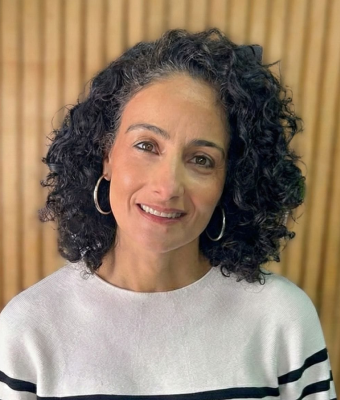
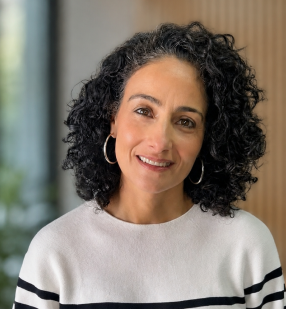
steering committe bio update

diff --git a/script.js b/script.js
@@ -52,9 +52,56 @@
     { id:"sc2", key:"Hama_Israeli", nameEn:"Hama Israeli-Smitzer", nameJa:"イスラエリ＝スミッツァー・ハマ", nameHe:"חמה ישראלי", org:"Ministry of Welfare and Social Affairs", orgHe:"משרד הרווחה והביטחון החברתי", role:"Senior Division Manager, Housing Systems for Senior Citizens", roleHe:"מנהלת בכירה, מערכות דיור לאזרחים ותיקים", email:"[email redacted]", photo:"Hama_Israeli.png" },
     { id:"sc3", key:"Oriel_Chazum", nameEn:"Oriel Chazum", nameJa:"カズム・ウリエル", nameHe:"אוריאל כזום", org:"National Insurance Institute", orgHe:"המוסד לביטוח לאומי", role:"Deputy Director General of Subsistence Benefits, Employment, and Senior Citizens Pensions", roleHe:"סגן מנכ״ל תחום קצבאות קיום, תעסוקה ופנסיות לאזרחים ותיקים", email:"[email redacted]", photo:"Oriel_Chazum.jpeg" },
     { id:"sc4", key:"Orit_Shachar", nameEn:"Orit Shahar", nameJa:"シャハル・オリット", nameHe:"אורית שחר", org:"JDC‑Eshel", orgHe:"ג'וינט ישראל – אשל", role:"Area Head – Health and Nursing Care for Older Adults", roleHe:"ראש תחום בריאות ותפקוד למבוגרים", email:"[email redacted]", photo:"Orit_Shachar.jpg" },
+    { id:"sc5", key:"Efrat_Gil", nameEn:"Efrat Gil", nameJa:"ギル・エフラット", nameHe:"אפרת גיל", org:"Ministry of Health", orgHe:"משרד הבריאות", role:"Head of Geriatric division", roleHe:"ראש מחלקת גריאטריה", email:"[email redacted]", photo:"Efrat_Gil.png" },
+    { id:"sc6", key:"Yafit_Bar", nameEn:"Yafit Bar", nameJa:"バル・ヤフィット", nameHe:"יפעת בר", org:"Ministry for Social Equality and the Advancement of the Status of Women", orgHe:"המשרד לשוויון חברתי וקידום מעמד האישה", role:"Director of Employment and Rights for Seniors", roleHe:"מנהלת תחום תעסוקה וזכויות לאזרחים ותיקים", email:"[email redacted]", photo:"Yafit_Bar.png" },
   ];
   var STEERING_BADGE = "Steering Committee";
-  var STEERING_PHOTO_VER = 10;
+  var STEERING_PHOTO_VER = 11;
+
+  var STEERING_BIOS = {
+    "Yariv_Man": [
+      "Yariv Man is Deputy Director General at the Ministry of Welfare and Social Affairs, where he heads the Administration for Senior Citizens. He is committed to promoting reforms aimed at adapting the welfare system to the needs of a continuously growing older population, while delegating planning and budgeting authority to local municipalities.",
+      "Previously, he served as Senior Director in the Department for the Socio-Economic Advancement of the Bedouin Society. Yariv holds an M.A. in Political Science, an M.A. in Public Policy, and a B.A. in Geography, all from the Hebrew University. He lives in Jerusalem with his wife and three sons."
+    ],
+    "Hama_Israeli": [
+      "Hama Israeli-Smitzer serves as Director of the Senior Housing Systems Division at the Israeli Ministry of Welfare and Social Affairs, leading national policy, regulation, and development of housing services for older adults, including nursing homes and assisted living facilities. She also serves as Acting Director of the Strategy and Population Aging Preparedness Division, overseeing strategic planning, research, digitization, and cross-government collaborations on aging policy.",
+      "In her previous role, she was responsible for the Ministry\u2019s out-of-home care systems, including residential facilities for children and youth and shelters for women affected by domestic violence. Hama is an expert in the development of welfare and housing services, with extensive experience in leading large-scale government programs, regulation, and multidisciplinary partnerships. She holds a Master\u2019s degree in Clinical Social Work from the Hebrew University of Jerusalem."
+    ],
+    "Oriel_Chazum": [
+      "Oriel Chazum serves as Deputy Director General of Subsistence Benefits, Employment, and Senior Citizens Pensions at the National Insurance Institute. He holds an M.A. in Public Policy from the Hebrew University.",
+      "He is a partner in formulating and promoting policy for benefit recipients and is responsible for providing services and ensuring access to rights in three main areas:",
+      "<strong>Employment Benefits:</strong> Oriel oversees the administration and processing of income-replacement benefits, ensuring financial support for individuals during career transitions or periods of unemployment.",
+      "<strong>Subsistence Allowances:</strong> He manages vital welfare programs designed to guarantee basic living conditions for vulnerable populations. This area focuses on reducing socioeconomic gaps and providing a reliable financial foundation for low-income individuals and their families, ensuring that they receive the support they need.",
+      "<strong>Senior Citizens:</strong> Oriel leads national initiatives to enhance the holistic well-being and economic security of older adults through two main departments. The first is Counseling for Senior Citizens and Their Families, a nationwide network that provides emotional, social, and community-based support for older adults and their families. The second is Third-Age Dependents Pensions, a vital financial safety net designed to significantly reduce poverty rates among older adults, ensure economic independence, and provide sustainable economic support for a dignified standard of living."
+    ],
+    "Orit_Shachar": [
+      "Orit Shahar is Area Head of Health and Functioning for Older Adults at JDC-Israel, Eshel. She holds an M.A. in Public Policy from the Hebrew University.",
+      "She works to advance optimal aging in Israel by initiating large-scale, measurable initiatives designed to help shape healthy aging in the country.",
+      "Her work focuses on two main areas:",
+      "<strong>Health and Functioning:</strong> This area aims to reduce functional decline and improve self-management and health literacy among pre-frail older adults within Israel\u2019s healthcare system, including hospitals and HMOs. In partnership with the Ministry of Health, Orit operates a program designed to decrease functional decline among hospitalized older adults by integrating age-friendly practices that encourage walking and delirium screening.",
+      "<strong>Formal Caregivers:</strong> In partnership with the National Insurance Institute, Orit promotes an active and healthy approach for older adults receiving home care. This includes developing a new skilled caregiver role and a career ladder designed to transform the knowledge and skills of the formal caregiving sector, helping it become more certified and oriented toward healthy aging.",
+      "Orit has extensive experience in developing social services, leading multi-partner collaborations, training professionals, and conducting applied research."
+    ],
+    "Efrat_Gil": [
+      "Dr. Efrat Gil is a specialist in internal medicine, geriatrics, and medical management. She currently serves as Head of the Geriatrics Division at the Ministry of Health.",
+      "She worked for many years as a specialist in internal medicine and geriatrics at Bnei Zion Hospital, where she established the hospital\u2019s geriatrics unit. Following that, she managed the geriatric department in the Haifa and Western Galilee district of Clalit Health Services and later served as Deputy Director of Emek Hospital.",
+      "Throughout her career, Efrat has been deeply involved in education and training. She has served as Head of the Geriatrics Department at the Faculty of Medicine at the Technion and as a member of the Israeli Geriatric Association Committee."
+    ],
+    "Yafit_Bar": [
+      "Yafit Bar serves as Director of the Employment and Rights Utilization Department for Senior Citizens at the Ministry for Social Equality and the Advancement of the Status of Women.",
+      "She is a public sector executive with over 10 years of leadership experience, building on a prior background as a small business manager in the private sector. She leads national policy, strategic initiatives, and program development for older adults aged 60 and above across two core areas: senior employment and proactive rights utilization.",
+      "<strong>Senior Employment and Adapting to an Aging Labor Market:</strong> Yafit is responsible for driving strategic initiatives, legislation, and efforts to shift employer perceptions in the era of the \u201c100-Year Lifespan.\u201d She oversees national career development, training, and guidance programs, including the flagship \u201cVatikim Ba\u2019avoda\u201d program. She also leads government initiatives to establish dedicated civil service positions for older adults, advance financial readiness for retirement, and develop the \u201cOrganizational Readiness Certification for 100 Years of Life\u201d for employers.",
+      "<strong>Rights Utilization:</strong> Yafit leads the national framework for senior citizens\u2019 rights utilization, which includes a dedicated service hotline, community lectures, and professional training. She also directs an innovative healthcare rights initiative in hospitals, powered by senior volunteers who provide vital information and guidance to hospitalized older adults and their families."
+    ]
+  };
+
+  function steeringBioHtml(key) {
+    var paras = STEERING_BIOS[key];
+    if (!paras || !paras.length) return '';
+    return paras.map(function (t) {
+      return '<p style="margin:0 0 10px;font-size:12px;line-height:1.55;opacity:0.95">'+t+'</p>';
+    }).join('');
+  }
 
   /** Japanese affiliation/title for card backs (from Members tab). Keys match participant `key`. */
   var MEMBER_JA_BACK = {
@@ -62,6 +109,8 @@
     "Hama_Israeli": { orgJa:"福祉社会保障省", roleJa:"高齢者住宅制度部 上席部長長" },
     "Oriel_Chazum": { orgJa:"国家保険院", roleJa:"生計保障給付・雇用・高齢者年金担当次長" },
     "Orit_Shachar": { orgJa:"JDC-エシェル（イスラエル高齢者支援機関）", roleJa:"高齢者の健康・看護ケア分野責任者" },
+    "Efrat_Gil": { orgJa:"保健省", roleJa:"老年医学部門長" },
+    "Yafit_Bar": { orgJa:"社会平等・女性の地位向上省", roleJa:"高齢者雇用・権利担当ディレクター" },
     "Avishay_Cohen": { orgJa:"労働省 多世代雇用課", roleJa:"課長" },
     "Avital_Simcha_Shlezinger": { orgJa:"国家保険院 高齢者・家族支援相談部", roleJa:"部長" },
     "Idit_Ayala_Reiss": { orgJa:"司法省 法務・法制室", roleJa:"顧問" },
@@ -492,6 +541,7 @@
     var orgJaBackHtml = backJaSubHtml(jaBack.orgJa);
     var roleJaBackHtml = backJaSubHtml(jaBack.roleJa);
     var email = escapeHtml(m.email);
+    var bioHtml = steeringBioHtml(m.key);
     var photoInner = '<div class="steering-photo-inner">'+steeringPhotoHtml(m)+'</div>';
     return '<div class="steering-card participant-card" data-steering-id="'+m.id+'" style="perspective:900px;cursor:pointer">' +
       '<div class="card-inner" style="transition:transform 0.55s">' +
@@ -514,9 +564,10 @@
         '<div class="card-back" style="position:absolute;inset:0;backface-visibility:hidden;transform:rotateY(180deg);background:linear-gradient(160deg,'+c.bg+','+c.bg+'ee);border-radius:14px;padding:18px;color:white;display:flex;flex-direction:column;overflow:hidden">' +
           '<div style="text-align:center;padding:12px 0 8px"><div style="font-weight:800;font-size:17px">'+nameEn+'</div>'+nameJaBackHtml+(nameHe ? '<div style="font-family:Arial;direction:rtl;font-size:13px;opacity:0.88">'+nameHe+'</div>' : '')+'</div>' +
           '<div style="height:1px;background:rgba(255,255,255,0.25)"></div>' +
-          '<div style="flex:1;min-height:0;overflow-y:auto;padding:12px 0 8px;font-size:13px"><div><strong>'+org+'</strong>'+orgJaBackHtml+'</div>' +
+          '<div class="steering-card-back-body" style="flex:1;min-height:0;overflow-y:auto;-webkit-overflow-scrolling:touch;padding:12px 0 8px;font-size:13px"><div><strong>'+org+'</strong>'+orgJaBackHtml+'</div>' +
           '<div style="margin-top:8px"><strong>'+role+'</strong>'+roleJaBackHtml+'</div>' +
-          '<div style="margin-top:8px"><a href="mailto:'+email+'" style="color:'+P.pale+'" onclick="event.stopPropagation()">'+email+'</a></div></div>' +
+          (m.email ? '<div style="margin-top:8px"><a href="mailto:'+email+'" style="color:'+P.pale+'" onclick="event.stopPropagation()">'+email+'</a></div>' : '') +
+          (bioHtml ? '<div style="margin-top:12px;padding-top:10px;border-top:1px solid rgba(255,255,255,0.2)">'+bioHtml+'</div>' : '') + '</div>' +
           '<div style="text-align:center;font-size:10px;opacity:0.5;padding-top:4px">TAP TO FLIP BACK</div>' +
         '</div>' +
       '</div></div>';

diff --git a/index.html b/index.html
@@ -379,6 +379,27 @@
     .steering-card[data-steering-id="sc4"] .card-front-footer {
       padding-top: 2px;
     }
+    .steering-card[data-steering-id="sc5"] .card-info .card-front-names {
+      flex: 1 1 auto;
+      min-height: 0;
+    }
+    .steering-card[data-steering-id="sc5"] .card-front-org-block {
+      flex: 1 1 auto;
+      min-height: 0;
+      margin-top: 16px;
+      padding-top: 14px;
+      display: flex;
+      flex-direction: column;
+      justify-content: flex-start;
+    }
+    .steering-card[data-steering-id="sc5"] .card-front-org {
+      flex: 0 0 auto;
+    }
+    .steering-card[data-steering-id="sc5"] .card-org {
+      margin-top: auto;
+      margin-bottom: 16px;
+      padding-top: 0;
+    }
     .steering-card .view-details {
       flex: 0 0 auto;
       flex-shrink: 0;
@@ -947,6 +968,20 @@
       .steering-card[data-steering-id="sc4"] .card-front-footer {
         padding-top: 2px !important;
       }
+      .steering-card[data-steering-id="sc5"] .card-front-org-block {
+        flex: 1 1 auto !important;
+        min-height: 0 !important;
+        margin-top: 16px !important;
+        padding-top: 14px !important;
+        display: flex !important;
+        flex-direction: column !important;
+        justify-content: flex-start !important;
+      }
+      .steering-card[data-steering-id="sc5"] .card-org {
+        margin-top: auto !important;
+        margin-bottom: 16px !important;
+        padding-top: 0 !important;
+      }
       .all-participants-title,
       .steering-section-heading { font-size: 18px !important; }
     }
@@ -1078,6 +1113,20 @@
       .steering-card[data-steering-id="sc4"] .card-front-footer {
         padding-top: 2px !important;
       }
+      .steering-card[data-steering-id="sc5"] .card-front-org-block {
+        flex: 1 1 auto !important;
+        min-height: 0 !important;
+        margin-top: 16px !important;
+        padding-top: 14px !important;
+        display: flex !important;
+        flex-direction: column !important;
+        justify-content: flex-start !important;
+      }
+      .steering-card[data-steering-id="sc5"] .card-org {
+        margin-top: auto !important;
+        margin-bottom: 16px !important;
+        padding-top: 0 !important;
+      }
       .team-card-new .team-name h2 { font-size: 20px !important; }
       .team-card-new .team-bio p { font-size: 14px !important; line-height: 1.65 !important; }
       .team-card-hadas { order: 1 !important; }
@@ -1117,6 +1166,6 @@
     <div id="team-page"></div>
   </main>
 
-  <script src="script.js?v=120"></script>
+  <script src="script.js?v=123"></script>
 </body>
 </html>